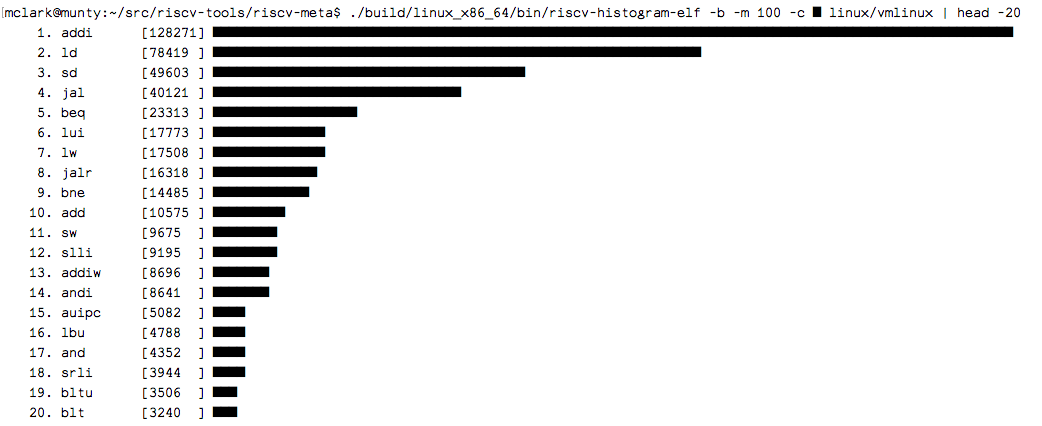
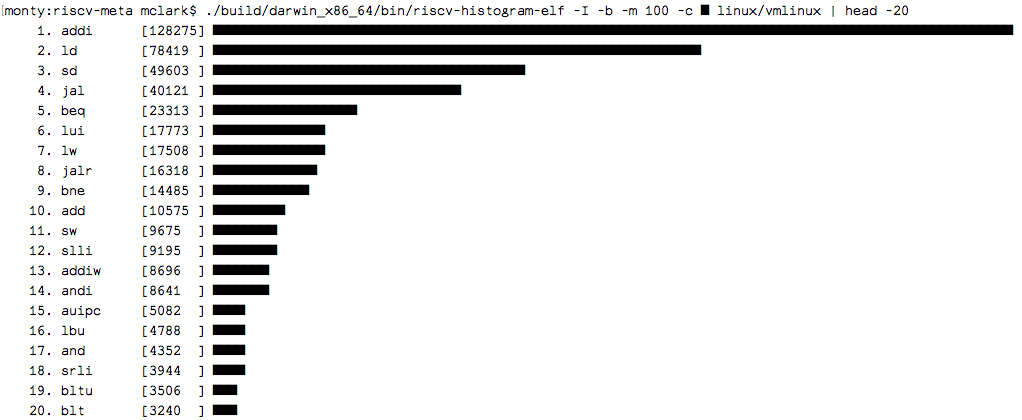
Update histogram screenshots and add register usage histogram

Changed region(s): [[0.0, 0.0, 1.0, 0.9905], [0.3033, 0.4024, 0.3337, 0.4333], [0.273, 0.4952, 0.3033, 0.5262]]

diff --git a/README.md b/README.md
@@ -38,9 +38,13 @@ The future goals of the RISC-V Meta project are:
 
 ![Histogram screenshot](https://raw.githubusercontent.com/michaeljclark/riscv-mc/master/screenshot-2.png)
 
-*Example Histogram from riscv-histogram-elf*
+*Example Instructions Histogram from riscv-histogram-elf*
 
-![RISC-V disassembly screenshot](https://raw.githubusercontent.com/michaeljclark/riscv-mc/master/screenshot-3.png)
+![Histogram screenshot](https://raw.githubusercontent.com/michaeljclark/riscv-mc/master/screenshot-3.png)
+
+*Example Registers Histogram from riscv-histogram-elf*
+
+![RISC-V disassembly screenshot](https://raw.githubusercontent.com/michaeljclark/riscv-mc/master/screenshot-4.png)
 
 *Example Disassembly output from riscv-parse-elf*
 
@@ -256,6 +260,9 @@ usage: riscv-histogram-elf [<options>] <elf_file>
                         --help, -h            Show help
                         --char, -c <string>   Character to use in bars
                         --bars, -b            Print bars next to counts
+                --instructions, -I            Instruction Usage Histogram
+                   --registers, -R            Register Usage Histogram
+          --registers-operands, -P            Register Usage Histogram (with operand positions)
                    --max-chars, -m <string>   Maximum number of characters for bars
                 --reverse-sort, -r            Sort in Reverse
 ```
